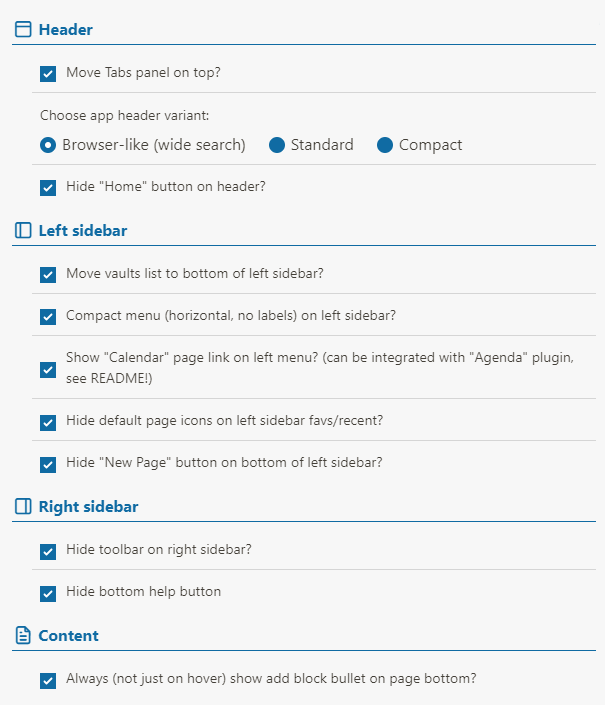
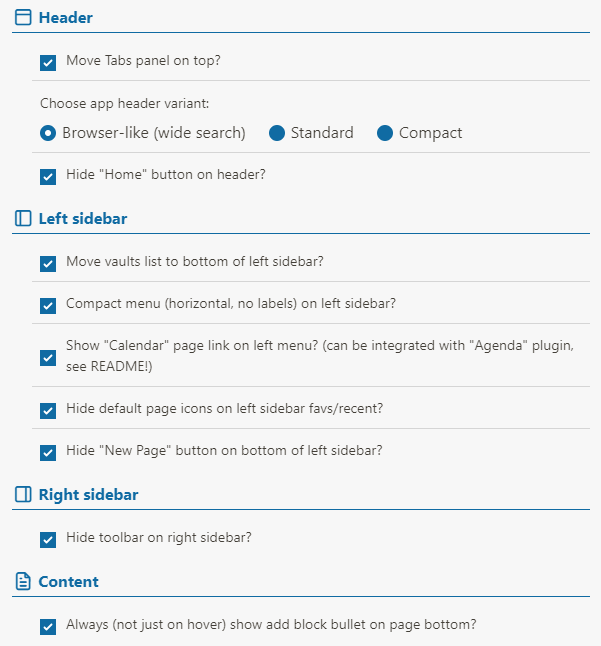
fix(features): delete hiding help button

diff --git a/src/plugin/settings.css b/src/plugin/settings.css
@@ -76,9 +76,6 @@
 .panel-wrap[data-id="logseq-awesome-ui"] .desc-item[data-key="hideRightSidebarToolbar"] small::before {
     content: "\ead5";
 }
-.panel-wrap[data-id="logseq-awesome-ui"] .desc-item[data-key="hideBottomHelpButton"] small::before {
-    content: "\eabf";
-}
 
 /* Content */
 .panel-wrap[data-id="logseq-awesome-ui"] .heading-item[data-key="contentHeading"] h2::before {

diff --git a/src/plugin/settingsConfig.ts b/src/plugin/settingsConfig.ts
@@ -92,13 +92,6 @@ export const settingsConfig: SettingSchemaDesc[] = [
         default: false,
     },
     {
-        key: 'hideBottomHelpButton',
-        title: '',
-        description: 'Hide bottom help button',
-        type: 'boolean',
-        default: false,
-    },
-    {
         key: 'contentHeading',
         title: 'Content',
         description: '',

diff --git a/src/modules/features/features.ts b/src/modules/features/features.ts
@@ -26,9 +26,4 @@ export const setFeaturesCSSVars = () => {
     } else {
         root.style.removeProperty('--awUi-new-bullet-hidden');
     }
-    if (globals.pluginConfig.hideBottomHelpButton) {
-        root.style.setProperty('--awUi-help-button-hidden', 'none');
-    } else {
-        root.style.removeProperty('--awUi-help-button-hidden');
-    }
 }

diff --git a/src/modules/features/features.css b/src/modules/features/features.css
@@ -18,8 +18,3 @@
     display: var(--awUi-sidebar-new-page, none) !important;
     position: fixed;
 }
-
-/* new page button */
-.cp__sidebar-help-btn {
-    display: var(--awUi-help-button-hidden, block) !important;
-}
